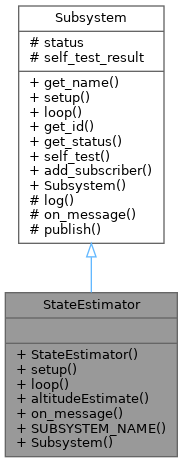
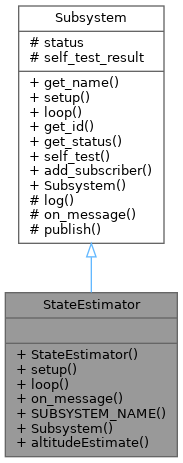
Deploying to gh-pages from @ TeamSunride/MRAS@8144930b6d92872ddd298b2c972da5cebd2cddc7 🚀

Changed region(s): [[0.1639, 0.8467, 0.9016, 0.9676]]

diff --git a/StateEstimator_8h_source.html b/StateEstimator_8h_source.html
@@ -125,7 +125,7 @@ $(document).ready(function(){initNavTree('StateEstimator_8h_source.html',''); in
 <div class="line"><a id="l00014" name="l00014"></a><span class="lineno">   14</span>        int8_t setup() <span class="keyword">override</span>;</div>
 <div class="line"><a id="l00015" name="l00015"></a><span class="lineno">   15</span>        int8_t loop() <span class="keyword">override</span>;</div>
 <div class="line"><a id="l00016" name="l00016"></a><span class="lineno">   16</span> </div>
-<div class="line"><a id="l00017" name="l00017"></a><span class="lineno">   17</span>        <span class="keywordtype">float</span> altitudeEstimate(<a class="code hl_struct" href="structBarometerDataMsg.html">BarometerDataMsg</a> *msg);</div>
+<div class="line"><a id="l00017" name="l00017"></a><span class="lineno">   17</span>        <span class="keyword">static</span> <span class="keywordtype">float</span> altitudeEstimate(<a class="code hl_struct" href="structBarometerDataMsg.html">BarometerDataMsg</a> *msg);</div>
 <div class="line"><a id="l00018" name="l00018"></a><span class="lineno">   18</span>        <span class="keywordtype">void</span> <a class="code hl_function" href="classStateEstimator.html#a84539a2ef749162404087d8398d77aad">on_message</a>(<a class="code hl_class" href="classSystemMessage.html">SystemMessage</a> *msg) <span class="keyword">override</span>;</div>
 <div class="line"><a id="l00019" name="l00019"></a><span class="lineno">   19</span> </div>
 <div class="line"><a id="l00020" name="l00020"></a><span class="lineno">   20</span> </div>
@@ -138,8 +138,8 @@ $(document).ready(function(){initNavTree('StateEstimator_8h_source.html',''); in
 <div class="line"><a id="l00027" name="l00027"></a><span class="lineno">   27</span>        <span class="keywordtype">float</span> velocity = 0;</div>
 <div class="line"><a id="l00028" name="l00028"></a><span class="lineno">   28</span> </div>
 <div class="line"><a id="l00029" name="l00029"></a><span class="lineno">   29</span>        <span class="keywordtype">bool</span> start = <span class="keyword">false</span>;</div>
-<div class="line"><a id="l00030" name="l00030"></a><span class="lineno">   30</span>        <span class="keywordtype">bool</span> recievedBaro = <span class="keyword">false</span>;</div>
-<div class="line"><a id="l00031" name="l00031"></a><span class="lineno">   31</span>        <span class="keywordtype">bool</span> recievedAcc = <span class="keyword">false</span>;</div>
+<div class="line"><a id="l00030" name="l00030"></a><span class="lineno">   30</span>        <span class="keywordtype">bool</span> receivedBaro = <span class="keyword">false</span>;</div>
+<div class="line"><a id="l00031" name="l00031"></a><span class="lineno">   31</span>        <span class="keywordtype">bool</span> receivedAcc = <span class="keyword">false</span>;</div>
 <div class="line"><a id="l00032" name="l00032"></a><span class="lineno">   32</span>        </div>
 <div class="line"><a id="l00033" name="l00033"></a><span class="lineno">   33</span>        <span class="keywordtype">float</span> yAcceleration = 0;</div>
 <div class="line"><a id="l00034" name="l00034"></a><span class="lineno">   34</span>        <span class="keywordtype">float</span> pressure = 0;</div>
@@ -154,7 +154,7 @@ $(document).ready(function(){initNavTree('StateEstimator_8h_source.html',''); in
 <div class="line"><a id="l00043" name="l00043"></a><span class="lineno">   43</span> </div>
 <div class="ttc" id="aclassLinearKalmanFilter_html"><div class="ttname"><a href="classLinearKalmanFilter.html">LinearKalmanFilter</a></div><div class="ttdef"><b>Definition:</b> LinearKalmanFilter.h:6</div></div>
 <div class="ttc" id="aclassStateEstimator_html"><div class="ttname"><a href="classStateEstimator.html">StateEstimator</a></div><div class="ttdef"><b>Definition:</b> StateEstimator.h:8</div></div>
-<div class="ttc" id="aclassStateEstimator_html_a84539a2ef749162404087d8398d77aad"><div class="ttname"><a href="classStateEstimator.html#a84539a2ef749162404087d8398d77aad">StateEstimator::on_message</a></div><div class="ttdeci">void on_message(SystemMessage *msg) override</div><div class="ttdef"><b>Definition:</b> StateEstimator.cpp:48</div></div>
+<div class="ttc" id="aclassStateEstimator_html_a84539a2ef749162404087d8398d77aad"><div class="ttname"><a href="classStateEstimator.html#a84539a2ef749162404087d8398d77aad">StateEstimator::on_message</a></div><div class="ttdeci">void on_message(SystemMessage *msg) override</div><div class="ttdef"><b>Definition:</b> StateEstimator.cpp:45</div></div>
 <div class="ttc" id="aclassSubsystem_html"><div class="ttname"><a href="classSubsystem.html">Subsystem</a></div><div class="ttdef"><b>Definition:</b> Subsystem.h:30</div></div>
 <div class="ttc" id="aclassSubsystem_html_a6eb8c08dad3e114628c49ecc54c457fb"><div class="ttname"><a href="classSubsystem.html#a6eb8c08dad3e114628c49ecc54c457fb">Subsystem::Subsystem</a></div><div class="ttdeci">Subsystem(uint8_t id)</div><div class="ttdef"><b>Definition:</b> Subsystem.h:86</div></div>
 <div class="ttc" id="aclassSystemMessage_html"><div class="ttname"><a href="classSystemMessage.html">SystemMessage</a></div><div class="ttdoc">A base class for all system messages.</div><div class="ttdef"><b>Definition:</b> SystemMessage.h:31</div></div>

diff --git a/classStateEstimator.html b/classStateEstimator.html
@@ -108,6 +108,7 @@ $(document).ready(function(){initNavTree('classStateEstimator.html',''); initRes
 <div class="header">
   <div class="summary">
 <a href="#pub-methods">Public Member Functions</a> &#124;
+<a href="#pub-static-methods">Static Public Member Functions</a> &#124;
 <a href="classStateEstimator-members.html">List of all members</a>  </div>
   <div class="headertitle"><div class="title">StateEstimator Class Reference</div></div>
 </div><!--header-->
@@ -140,9 +141,6 @@ Public Member Functions</h2></td></tr>
 <tr class="separator:af181be60bc9a0800b73d6e841c0f5a61"><td class="memSeparator" colspan="2">&#160;</td></tr>
 <tr class="memitem:a8625b84e68cbe75d4cfafecc888c5584"><td class="memItemLeft" align="right" valign="top">int8_t&#160;</td><td class="memItemRight" valign="bottom"><a class="el" href="classStateEstimator.html#a8625b84e68cbe75d4cfafecc888c5584">loop</a> () override</td></tr>
 <tr class="separator:a8625b84e68cbe75d4cfafecc888c5584"><td class="memSeparator" colspan="2">&#160;</td></tr>
-<tr class="memitem:a1714b1172d673c22bc141da951f22c6b"><td class="memItemLeft" align="right" valign="top"><a id="a1714b1172d673c22bc141da951f22c6b" name="a1714b1172d673c22bc141da951f22c6b"></a>
-float&#160;</td><td class="memItemRight" valign="bottom"><b>altitudeEstimate</b> (<a class="el" href="structBarometerDataMsg.html">BarometerDataMsg</a> *msg)</td></tr>
-<tr class="separator:a1714b1172d673c22bc141da951f22c6b"><td class="memSeparator" colspan="2">&#160;</td></tr>
 <tr class="memitem:a84539a2ef749162404087d8398d77aad"><td class="memItemLeft" align="right" valign="top">void&#160;</td><td class="memItemRight" valign="bottom"><a class="el" href="classStateEstimator.html#a84539a2ef749162404087d8398d77aad">on_message</a> (<a class="el" href="classSystemMessage.html">SystemMessage</a> *msg) override</td></tr>
 <tr class="separator:a84539a2ef749162404087d8398d77aad"><td class="memSeparator" colspan="2">&#160;</td></tr>
 <tr class="memitem:af297edb81b1b75353097280383d17f72"><td class="memItemLeft" align="right" valign="top"><a id="af297edb81b1b75353097280383d17f72" name="af297edb81b1b75353097280383d17f72"></a>
@@ -167,6 +165,12 @@ float&#160;</td><td class="memItemRight" valign="bottom"><b>altitudeEstimate</b>
 <tr class="separator:a2889256c514795843bae996625348f83 inherit pub_methods_classSubsystem"><td class="memSeparator" colspan="2">&#160;</td></tr>
 <tr class="memitem:a6eb8c08dad3e114628c49ecc54c457fb inherit pub_methods_classSubsystem"><td class="memItemLeft" align="right" valign="top">&#160;</td><td class="memItemRight" valign="bottom"><a class="el" href="classSubsystem.html#a6eb8c08dad3e114628c49ecc54c457fb">Subsystem</a> (uint8_t id)</td></tr>
 <tr class="separator:a6eb8c08dad3e114628c49ecc54c457fb inherit pub_methods_classSubsystem"><td class="memSeparator" colspan="2">&#160;</td></tr>
+</table><table class="memberdecls">
+<tr class="heading"><td colspan="2"><h2 class="groupheader"><a id="pub-static-methods" name="pub-static-methods"></a>
+Static Public Member Functions</h2></td></tr>
+<tr class="memitem:a1714b1172d673c22bc141da951f22c6b"><td class="memItemLeft" align="right" valign="top"><a id="a1714b1172d673c22bc141da951f22c6b" name="a1714b1172d673c22bc141da951f22c6b"></a>
+static float&#160;</td><td class="memItemRight" valign="bottom"><b>altitudeEstimate</b> (<a class="el" href="structBarometerDataMsg.html">BarometerDataMsg</a> *msg)</td></tr>
+<tr class="separator:a1714b1172d673c22bc141da951f22c6b"><td class="memSeparator" colspan="2">&#160;</td></tr>
 </table><table class="memberdecls">
 <tr class="heading"><td colspan="2"><h2 class="groupheader"><a id="inherited" name="inherited"></a>
 Additional Inherited Members</h2></td></tr>

diff --git a/classStateEstimator-members.html b/classStateEstimator-members.html
@@ -113,7 +113,7 @@ $(document).ready(function(){initNavTree('classStateEstimator.html',''); initRes
 <p>This is the complete list of members for <a class="el" href="classStateEstimator.html">StateEstimator</a>, including all inherited members.</p>
 <table class="directory">
   <tr class="even"><td class="entry"><a class="el" href="classSubsystem.html#a2889256c514795843bae996625348f83">add_subscriber</a>(Subsystem *subscriber)</td><td class="entry"><a class="el" href="classSubsystem.html">Subsystem</a></td><td class="entry"></td></tr>
-  <tr bgcolor="#f0f0f0" class="odd"><td class="entry"><b>altitudeEstimate</b>(BarometerDataMsg *msg) (defined in <a class="el" href="classStateEstimator.html">StateEstimator</a>)</td><td class="entry"><a class="el" href="classStateEstimator.html">StateEstimator</a></td><td class="entry"></td></tr>
+  <tr bgcolor="#f0f0f0" class="odd"><td class="entry"><b>altitudeEstimate</b>(BarometerDataMsg *msg) (defined in <a class="el" href="classStateEstimator.html">StateEstimator</a>)</td><td class="entry"><a class="el" href="classStateEstimator.html">StateEstimator</a></td><td class="entry"><span class="mlabel">static</span></td></tr>
   <tr class="even"><td class="entry"><a class="el" href="classSubsystem.html#a4a05504b0bf74642351608e7e4eae730">get_id</a>() const</td><td class="entry"><a class="el" href="classSubsystem.html">Subsystem</a></td><td class="entry"></td></tr>
   <tr class="odd"><td class="entry"><a class="el" href="classSubsystem.html#a19fffb42e27b6720100ff6870e84f382">get_name</a>()=0</td><td class="entry"><a class="el" href="classSubsystem.html">Subsystem</a></td><td class="entry"><span class="mlabel">pure virtual</span></td></tr>
   <tr class="even"><td class="entry"><a class="el" href="classSubsystem.html#a29baf5580b55bc1f1b92cbcafe5aa622">get_status</a>() const</td><td class="entry"><a class="el" href="classSubsystem.html">Subsystem</a></td><td class="entry"></td></tr>

diff --git a/md_docs_BeginnerExplanation.html b/md_docs_BeginnerExplanation.html
@@ -137,7 +137,7 @@ System Message Explanation</h1>
 <div class="line">}</div>
 <div class="line"> </div>
 <div class="line">}</div>
-<div class="ttc" id="aclassStateEstimator_html_a84539a2ef749162404087d8398d77aad"><div class="ttname"><a href="classStateEstimator.html#a84539a2ef749162404087d8398d77aad">StateEstimator::on_message</a></div><div class="ttdeci">void on_message(SystemMessage *msg) override</div><div class="ttdef"><b>Definition:</b> StateEstimator.cpp:48</div></div>
+<div class="ttc" id="aclassStateEstimator_html_a84539a2ef749162404087d8398d77aad"><div class="ttname"><a href="classStateEstimator.html#a84539a2ef749162404087d8398d77aad">StateEstimator::on_message</a></div><div class="ttdeci">void on_message(SystemMessage *msg) override</div><div class="ttdef"><b>Definition:</b> StateEstimator.cpp:45</div></div>
 <div class="ttc" id="aclassSystemMessage_html_a52115712bcb3591a2054dff75932279a"><div class="ttname"><a href="classSystemMessage.html#a52115712bcb3591a2054dff75932279a">SystemMessage::get_type</a></div><div class="ttdeci">SystemMessageType get_type()</div><div class="ttdoc">Get the type of the message.</div><div class="ttdef"><b>Definition:</b> SystemMessage.h:40</div></div>
 </div><!-- fragment --><p>The <code><a class="el" href="classStateEstimator.html">StateEstimator</a></code> class recieves a catalogue of information everytime a sub-system publishes, the <code><a class="el" href="classSystemMessage.html" title="A base class for all system messages.">SystemMessage</a></code> but it only needs the barometer reading so it can simply use the function <code>get_type()</code> in an if statement to filter out the barometer data. <br  />
 </p>
